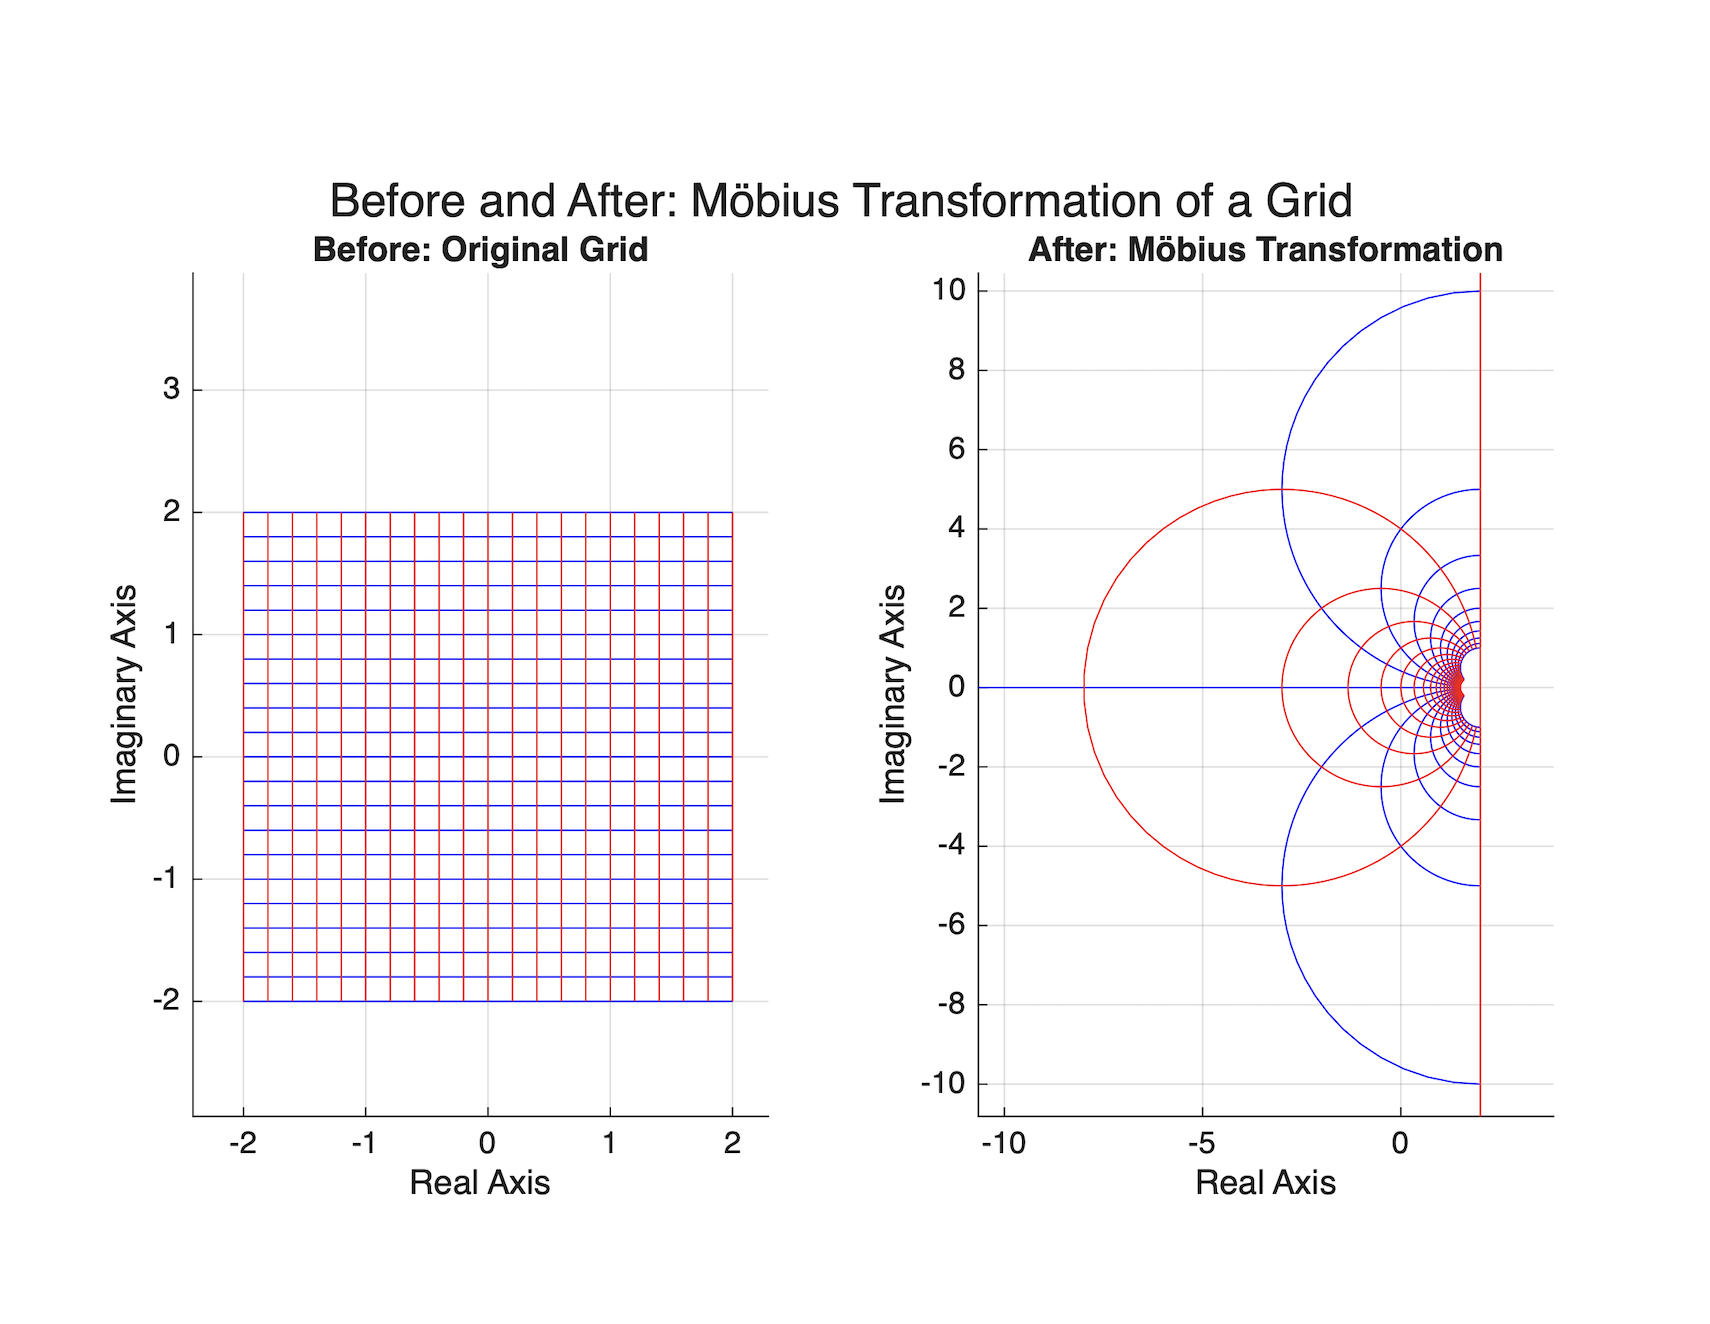
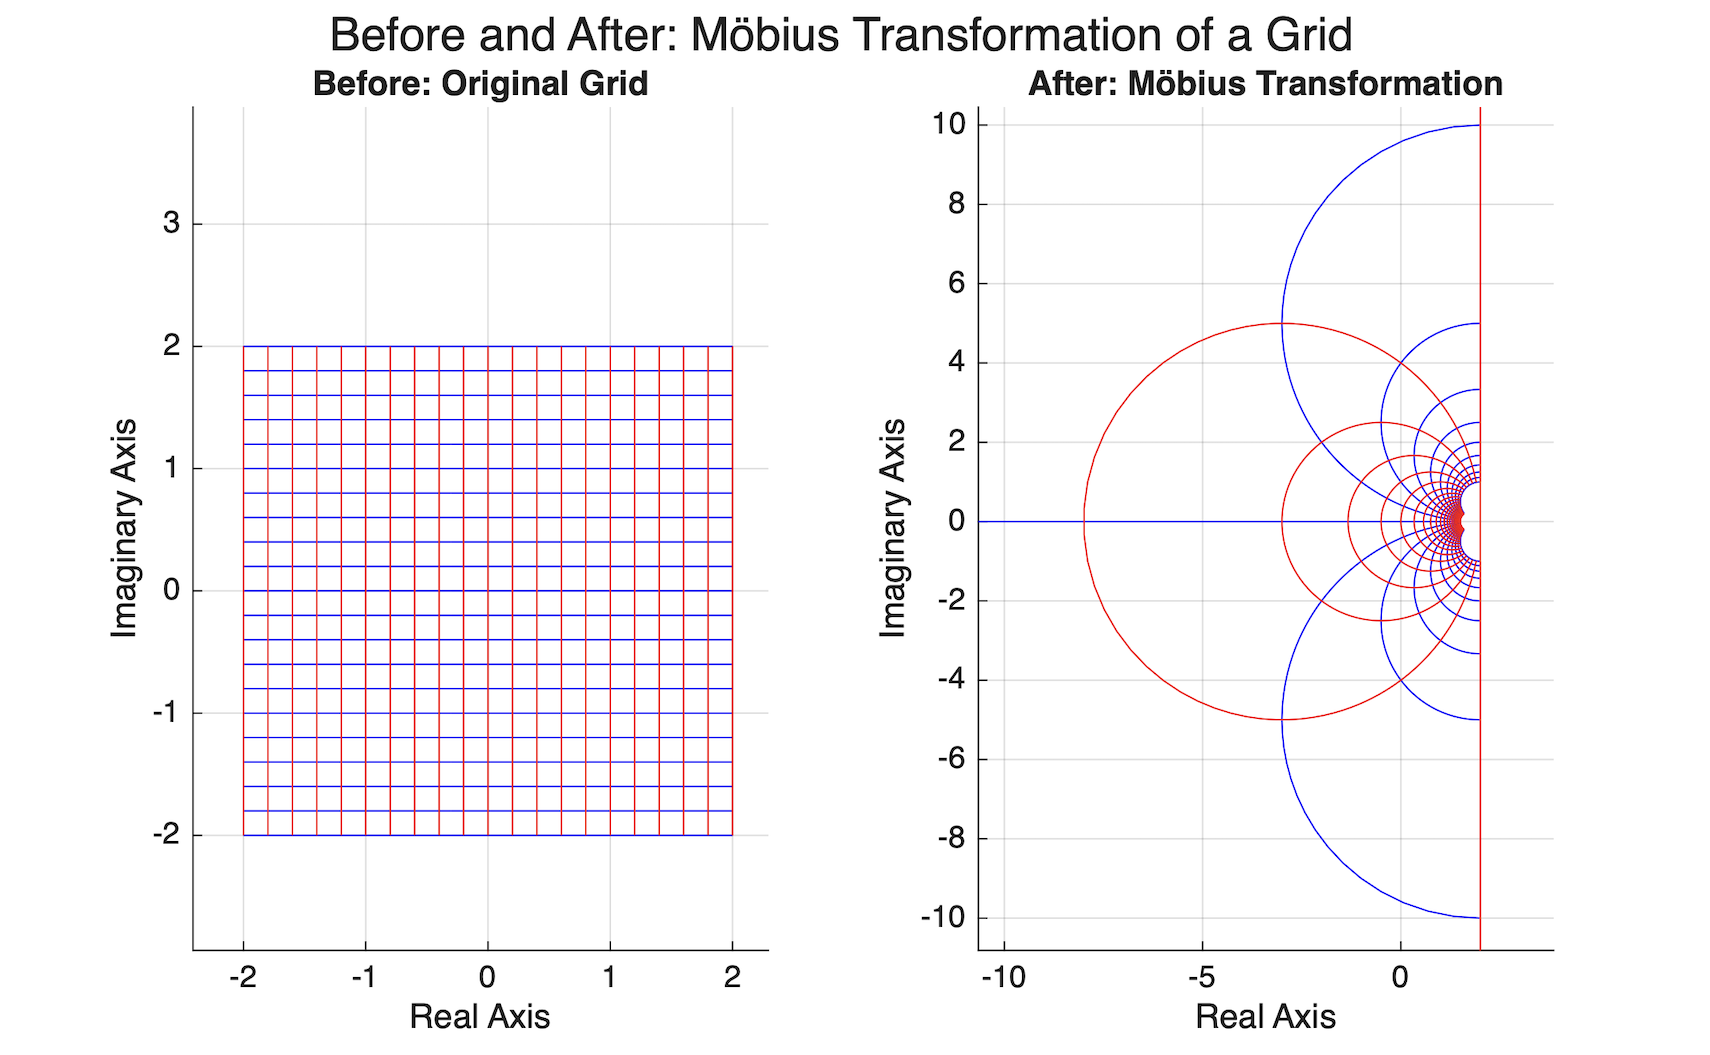
Clean up/escape LaTeX and image to figure.

diff --git a/content/S26/MAT4170/blog/JorgeAvina/index.md b/content/S26/MAT4170/blog/JorgeAvina/index.md
@@ -12,34 +12,15 @@ Interestingly enough, Möbius transformations are one of those topics in mathema
 
 A Möbius transformation is a function of the form
 
-$$
-f(z)=\frac{az+b}{cz+d},
-$$
+$$f(z)=\\frac{az+b}{cz+d},$$
 
-where
-
-$$
-a,b,c,d\in\mathbb{C}
-$$
-
-and
-
-$$
-ad-bc\neq0.
-$$
+where $a,b,c,d\\in\\mathbb{C}$ and $ ad-bc\\neq0.$
 
 Keep in mind this condition
 
-$$
-ad-bc\neq0
-$$
+$$ad-bc\\neq0$$
 
-is extremely important because it guarantees the transformation is invertible. Without this condition the denominator could collapse the transformation into something degenerate and unusable. Möbius transformations act on what is known as the extended complex plane,
-
-$$
-\mathbb{C}\cup\{\infty\},
-$$
-
+is extremely important because it guarantees the transformation is invertible. Without this condition the denominator could collapse the transformation into something degenerate and unusable. Möbius transformations act on what is known as the extended complex plane, $\\mathbb{C}\\cup\\{\\infty\\}$,
 meaning infinity itself is treated as a point. At first this sounds strange, however it becomes natural once the geometry is visualized.
 
 What makes Möbius transformations so important is the fact that they are conformal maps. In short, conformal means angle preserving. Interestingly enough, although the global geometry may appear completely warped, locally the structure still behaves the same way. In a sense, it is like stretching and bending a rubber sheet without tearing it. Apart from preserving angles, Möbius transformations map circles and lines to circles and lines. This property becomes visually obvious once a grid transformation is graphed.
@@ -52,42 +33,35 @@ To better understand this visually, imagine a standard rectangular grid in the c
 
 The following demonstrates this idea through a before and after visualization:
 
-![Möbius Transformation Visualization](Mobius_Transformation_of_a_Grid.png)
+<figure>
+  <img src="Mobius_Transformation_of_a_Grid.png" alt="Möbius Transformation Visualization">
+  <figcaption>Möbius Transformation Visualization</figcaption>
+</figure>
 
 The left image represents the original grid while the right image shows the transformed grid after applying
 
 $$
-f(z)=\frac{z+1}{0.5z+1}.
+f(z)=\\frac{z+1}{0.5z+1}.
 $$
 
 Now, apart from the geometry itself, Möbius transformations become even more interesting algebraically. When two Möbius transformations are composed together, the result is another Möbius transformation. This property is known as closure.
 
-Let
-
-$$
-f(z)=\frac{az+b}{cz+d}
-$$
-
-and
-
-$$
-g(z)=\frac{ez+f}{gz+h}.
-$$
+Let $\\displaystyle f(z)=\\frac{az+b}{cz+d}$ and $\\displaystyle g(z)=\\frac{ez+f}{gz+h}.$
 
 When these are composed together, the resulting coefficients follow the exact same pattern as matrix multiplication:
 
 $$
-\begin{pmatrix}
-a & b\\
+\\begin{pmatrix}
+a & b\\\\
 c & d
-\end{pmatrix}
-\begin{pmatrix}
-e & f\\
+\\end{pmatrix}
+\\begin{pmatrix}
+e & f\\\\
 g & h
-\end{pmatrix}.
+\\end{pmatrix}.
 $$
 
-This is not a coincidence. Every Möbius transformation naturally corresponds to a $2\times2$ complex matrix. Interestingly enough, what initially appears to be a complicated rational function is actually deeply connected to linear algebra.
+This is not a coincidence. Every Möbius transformation naturally corresponds to a $2\\times2$ complex matrix. Interestingly enough, what initially appears to be a complicated rational function is actually deeply connected to linear algebra.
 
 ---
 
@@ -97,41 +71,29 @@ Möbius transformations also form a group under composition. Keep in mind a grou
 
 Closure holds because composing two Möbius transformations produces another Möbius transformation.
 
-The identity transformation is simply
-
-$$
-f(z)=z.
-$$
+The identity transformation is simply $f(z)=z.$
 
 Every Möbius transformation also has an inverse:
 
 $$
-f^{-1}(z)=\frac{dz-b}{-cz+a}.
+f^{-1}(z)=\\frac{dz-b}{-cz+a}.
 $$
 
 Again, this inverse exists because
 
 $$
-ad-bc\neq0.
+ad-bc\\neq0.
 $$
 
 Now, here is where things begin to overlap algebraically. Different matrices can actually define the exact same Möbius transformation. Geometrically nothing changes, however algebraically the matrices appear different.
 
-For any nonzero scalar \(\lambda\),
+For any nonzero scalar \\(\\lambda\\),
 
-$$
-\frac{\lambda az+\lambda b}{\lambda cz+\lambda d}
-=
-\frac{az+b}{cz+d}.
-$$
+$$\\frac{\\lambda az+\\lambda b}{\\lambda cz+\\lambda d}=\\frac{az+b}{cz+d}.$$
 
 For example,
 
-$$
-\frac{z+1}{z+2}
-=
-\frac{2z+2}{2z+4}.
-$$
+$$\\frac{z+1}{z+2}=\\frac{2z+2}{2z+4}.$$
 
 At first this may not seem important, however this creates redundancy. One Möbius transformation can have infinitely many matrix representations. Keep in mind mathematicians care about structure and behavior, not duplicate information.
 
@@ -141,34 +103,22 @@ At first this may not seem important, however this creates redundancy. One Möbi
 
 This naturally leads into quotient groups. A quotient group essentially groups objects together when they should be treated as equivalent. In this setting, matrices differing only by scalar multiples are treated as the same object.
 
-We begin with
+We begin with $GL(2,\\mathbb{C}),$ the General Linear Group of invertible \\(2\\times2\\) complex matrices. From there, scalar multiples are identified together.
 
-$$
-GL(2,\mathbb{C}),
-$$
-
-the General Linear Group of invertible \(2\times2\) complex matrices. From there, scalar multiples are identified together.
-
-Interestingly enough, this quotient construction removes algebraic redundancy while preserving the actual geometry of the transformation itself. Ultimately this leads to
-
-$$
-PSL(2,\mathbb{C}),
-$$
-
-known as the Projective Special Linear Group.
+Interestingly enough, this quotient construction removes algebraic redundancy while preserving the actual geometry of the transformation itself. Ultimately this leads to $PSL(2,\\mathbb{C}),$ known as the Projective Special Linear Group.
 
 At first normal subgroups may seem like another abstract algebra definition to memorize, however they are actually the mechanism that allows quotient groups to function correctly. Without normality, the quotient construction would fail algebraically.
 
 In this case the subgroup
 
 $$
-N=\{\lambda I:\lambda\neq0\}
+N=\\{\\lambda I:\\lambda\\neq0\\}
 $$
 
 forms a normal subgroup because scalar matrices commute with every matrix:
 
 $$
-A(\lambda I)A^{-1}=\lambda I.
+A(\\lambda I)A^{-1}=\\lambda I.
 $$
 
 In a sense, scalar matrices are “invisible scaling factors.” They change the matrix representation algebraically without changing the geometric transformation itself.
@@ -177,18 +127,14 @@ In a sense, scalar matrices are “invisible scaling factors.” They change the
 
 # Isomorphism and the Final Structure
 
-Finally, the most important conclusion of this entire topic is the isomorphism between Möbius transformations and
-
-$$
-PSL(2,\mathbb{C}).
-$$
+Finally, the most important conclusion of this entire topic is the isomorphism between Möbius transformations and $PSL(2,\\mathbb{C}).$
 
 An isomorphism means two groups may look different externally, however internally they behave exactly the same way.
 
 We define a map
 
 $$
-\Phi:G\to PSL(2,\mathbb{C}),
+\\Phi:G\\to PSL(2,\\mathbb{C}),
 $$
 
 which sends each Möbius transformation to its matrix equivalence class.
@@ -198,7 +144,7 @@ This map works because composition of Möbius transformations corresponds perfec
 Ultimately,
 
 $$
-G\cong PSL(2,\mathbb{C}).
+G\\cong PSL(2,\\mathbb{C}).
 $$
 
 Möbius transformations begin as geometric distortions of the complex plane, however they eventually reveal a deep algebraic structure connecting geometry, matrices, quotient groups, and symmetry. Interestingly enough, what starts as a rational function ultimately becomes one of the clearest examples of geometry and algebra describing the exact same mathematical object from completely different perspectives.